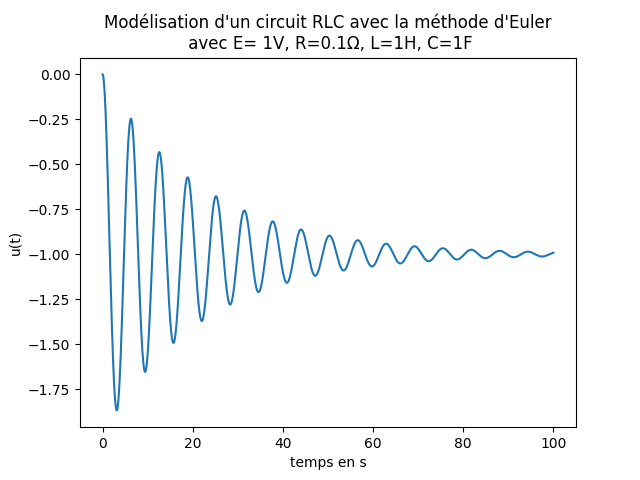
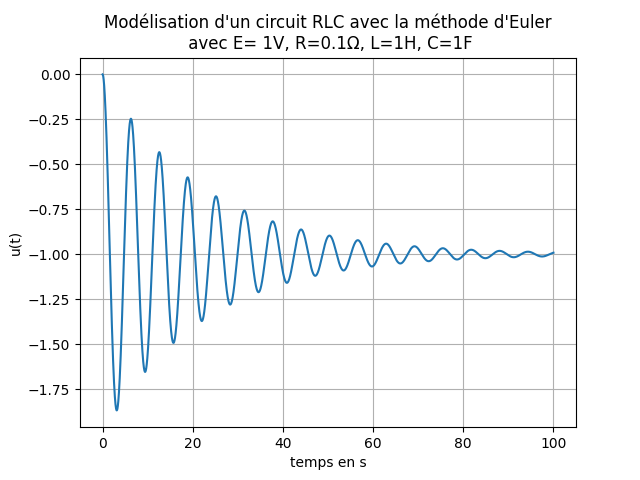
Euler

diff --git a/src/plot_system.py b/src/plot_system.py
@@ -11,4 +11,5 @@ plt.plot(data[:,0],data[:,1])
 plt.title('Modélisation d\'un circuit RLC avec la méthode d\'Euler\n avec E= 1V, R=0.1Ω, L=1H, C=1F')
 plt.xlabel("temps en s")
 plt.ylabel("u(t)")
+plt.grid()
 plt.savefig('euler.png')
